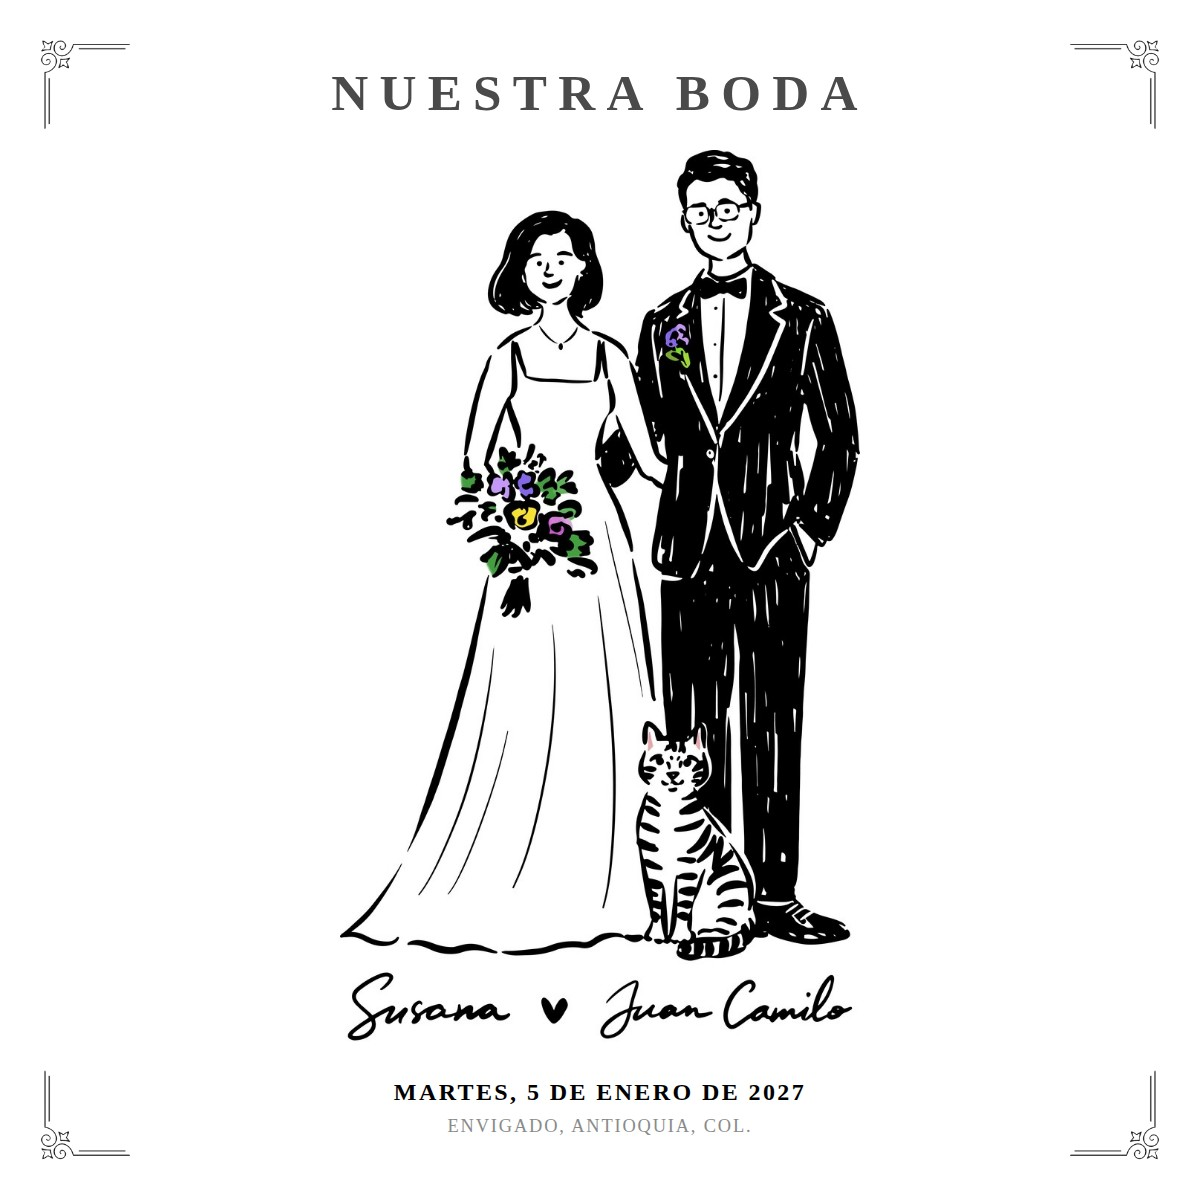
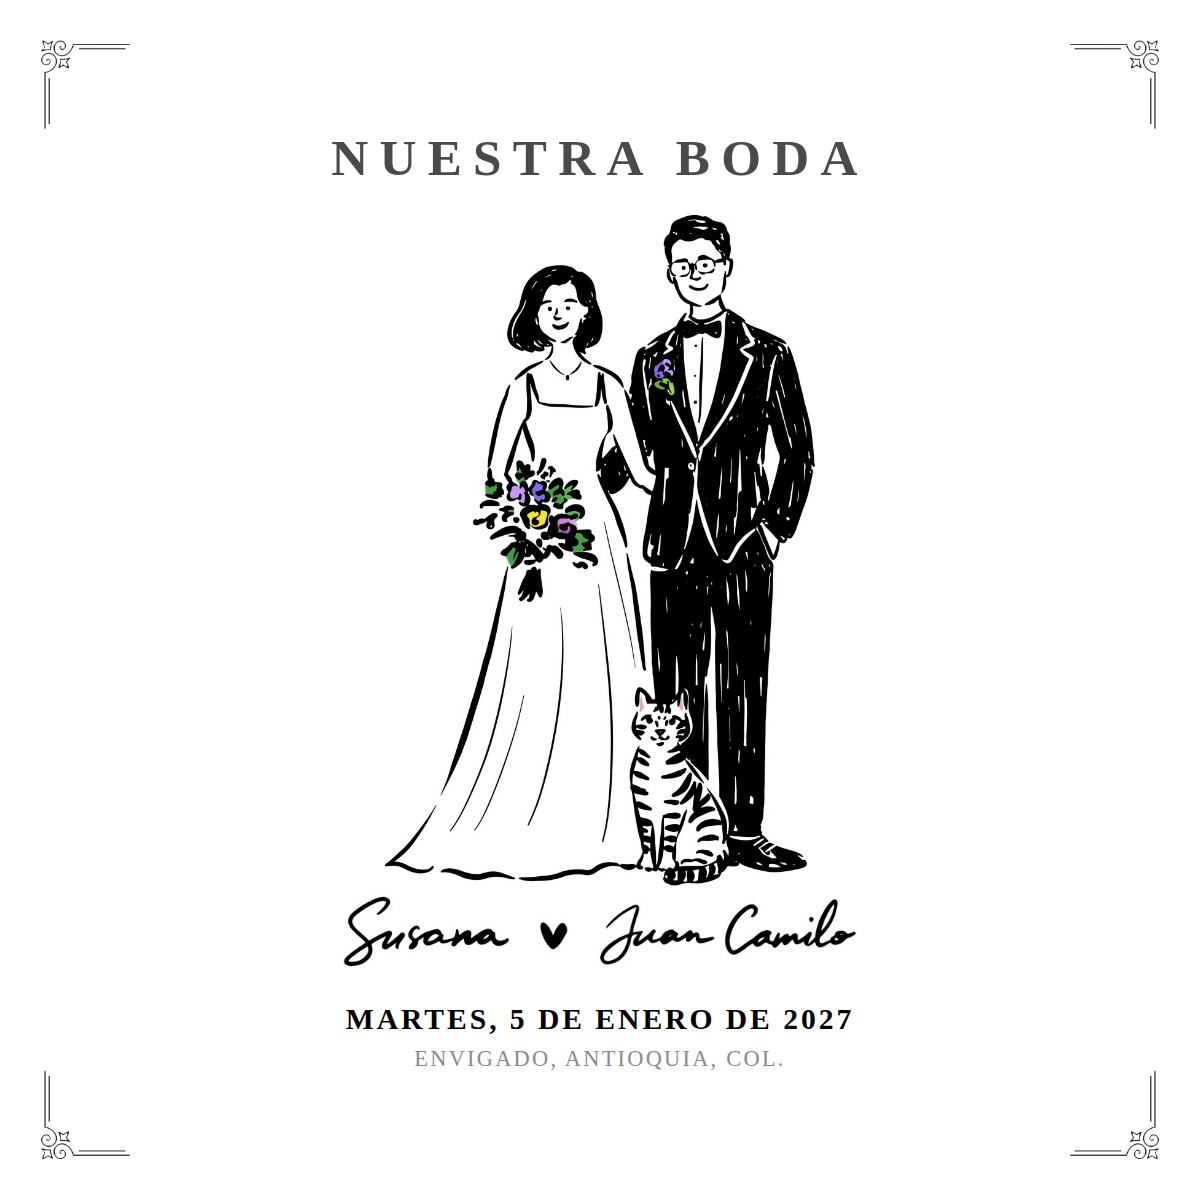
Add files via upload

Changed region(s): [[0.2775, 0.1233, 0.74, 0.9558], [0.2775, 0.0617, 0.7092, 0.0925]]

diff --git a/index.html b/index.html
@@ -274,7 +274,9 @@
   .timeline .label span{color:var(--ink-soft);font-size:1.05rem;}
   .timeline .label svg{width:20px;height:20px;flex:none;}
   @media (max-width:560px){
-    .timeline{flex-direction:column;align-items:stretch;gap:18px;padding-top:0;}
+    .details{padding-bottom:18px;}
+    .schedule{padding-top:16px;}
+    .timeline{flex-direction:column;align-items:stretch;gap:46px;padding-top:0;}
     .timeline::before{
       top:14px;
       bottom:14px;

diff --git a/max1.html b/max1.html
@@ -274,7 +274,9 @@
   .timeline .label span{color:var(--ink-soft);font-size:1.05rem;}
   .timeline .label svg{width:20px;height:20px;flex:none;}
   @media (max-width:560px){
-    .timeline{flex-direction:column;align-items:stretch;gap:18px;padding-top:0;}
+    .details{padding-bottom:18px;}
+    .schedule{padding-top:16px;}
+    .timeline{flex-direction:column;align-items:stretch;gap:46px;padding-top:0;}
     .timeline::before{
       top:14px;
       bottom:14px;

diff --git a/max2.html b/max2.html
@@ -274,7 +274,9 @@
   .timeline .label span{color:var(--ink-soft);font-size:1.05rem;}
   .timeline .label svg{width:20px;height:20px;flex:none;}
   @media (max-width:560px){
-    .timeline{flex-direction:column;align-items:stretch;gap:18px;padding-top:0;}
+    .details{padding-bottom:18px;}
+    .schedule{padding-top:16px;}
+    .timeline{flex-direction:column;align-items:stretch;gap:46px;padding-top:0;}
     .timeline::before{
       top:14px;
       bottom:14px;

diff --git a/max3.html b/max3.html
@@ -274,7 +274,9 @@
   .timeline .label span{color:var(--ink-soft);font-size:1.05rem;}
   .timeline .label svg{width:20px;height:20px;flex:none;}
   @media (max-width:560px){
-    .timeline{flex-direction:column;align-items:stretch;gap:18px;padding-top:0;}
+    .details{padding-bottom:18px;}
+    .schedule{padding-top:16px;}
+    .timeline{flex-direction:column;align-items:stretch;gap:46px;padding-top:0;}
     .timeline::before{
       top:14px;
       bottom:14px;

diff --git a/max4.html b/max4.html
@@ -274,7 +274,9 @@
   .timeline .label span{color:var(--ink-soft);font-size:1.05rem;}
   .timeline .label svg{width:20px;height:20px;flex:none;}
   @media (max-width:560px){
-    .timeline{flex-direction:column;align-items:stretch;gap:18px;padding-top:0;}
+    .details{padding-bottom:18px;}
+    .schedule{padding-top:16px;}
+    .timeline{flex-direction:column;align-items:stretch;gap:46px;padding-top:0;}
     .timeline::before{
       top:14px;
       bottom:14px;

diff --git a/max5.html b/max5.html
@@ -274,7 +274,9 @@
   .timeline .label span{color:var(--ink-soft);font-size:1.05rem;}
   .timeline .label svg{width:20px;height:20px;flex:none;}
   @media (max-width:560px){
-    .timeline{flex-direction:column;align-items:stretch;gap:18px;padding-top:0;}
+    .details{padding-bottom:18px;}
+    .schedule{padding-top:16px;}
+    .timeline{flex-direction:column;align-items:stretch;gap:46px;padding-top:0;}
     .timeline::before{
       top:14px;
       bottom:14px;

diff --git a/max6.html b/max6.html
@@ -274,7 +274,9 @@
   .timeline .label span{color:var(--ink-soft);font-size:1.05rem;}
   .timeline .label svg{width:20px;height:20px;flex:none;}
   @media (max-width:560px){
-    .timeline{flex-direction:column;align-items:stretch;gap:18px;padding-top:0;}
+    .details{padding-bottom:18px;}
+    .schedule{padding-top:16px;}
+    .timeline{flex-direction:column;align-items:stretch;gap:46px;padding-top:0;}
     .timeline::before{
       top:14px;
       bottom:14px;
